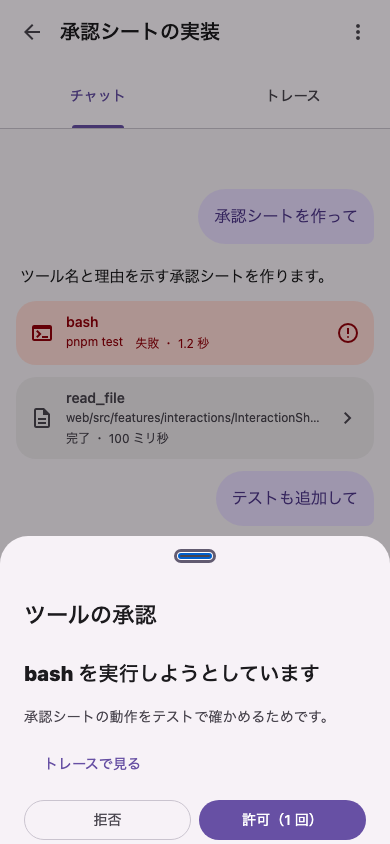
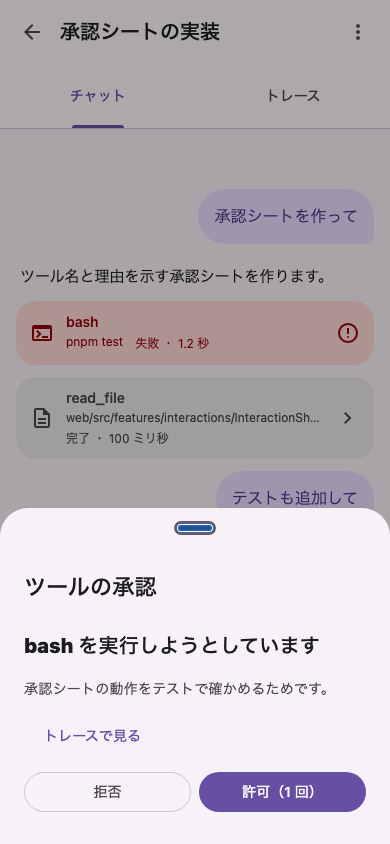
docs: add English and Chinese READMEs with screenshots
AI-Harness: Codex desktop
AI-Model: GPT-6
AI-Effort: 未計測（実行環境から推論設定値を取得できないため）
AI-Duration: 未計測（作業開始時刻を計測していないため）
AI-Cost: 未計測（個別の費用計測値が提供されないため）
AI-Task: README translations

Changed region(s): [[0.0615, 0.6777, 0.8308, 0.9858], [0.0, 0.5853, 1.0, 0.6777], [0.4923, 0.8934, 0.9538, 1.0]]

diff --git a/README.zh-CN.md b/README.zh-CN.md
@@ -1,0 +1,76 @@
+# dsh-webui-m3e
+
+[日本語](README.md) | [English](README.en.md) | 简体中文
+
+这是一个插件，让你通过适合智能手机使用的 Material 3 Expressive 界面操作 DeepSeek Harness（DSH）。界面文字仅提供日语。
+
+<p>
+  <img src="docs/images/home.zh-CN.png" alt="会话列表" width="200">
+  <img src="docs/images/chat.zh-CN.png" alt="会话聊天" width="200">
+  <img src="docs/images/approval.zh-CN.png" alt="工具审批" width="200">
+  <img src="docs/images/inbox.zh-CN.png" alt="待处理事项" width="200">
+</p>
+
+这些截图展示经过翻译的模拟画面；实际应用界面仍仅提供日语。
+
+> [!NOTE]
+> 这是个人项目，并非 DeepSeek 官方产品。项目仍在开发中，尚未完成与实际 DSH 连接的验证。
+
+## 功能
+
+- **会话**：在手机屏幕上阅读与 AI 的对话、工具执行结果和思考内容，也可以切换到按时间顺序排列记录的「トレース」（追踪）视图。
+- **回复**：无论当前在哪个页面，都可以通过底部弹出的面板审批工具、回答 AI 的提问或确认计划。
+- **待处理事项**：集中查看需要回复的会话和已结束的会话。
+- **输入**：支持附加图片、显示文件和命令候选项，以及切换模型和权限。
+- **其他功能**：搜索会话、配置 DSH 并登记 API 密钥，以及将网页添加到主屏幕后作为 Web 应用使用。
+
+DSH 原有的界面会保留。你可以在每台设备上分别选择使用哪个界面。
+
+## 环境要求
+
+- DeepSeek Harness 0.1.5-rc.3（已使用此版本验证启动和连接）
+- 用于构建的 Node.js 22 或更高版本，以及 pnpm
+
+## 安装
+
+```bash
+git clone https://github.com/AliceSaikawa/dsh-webui-m3e.git
+```
+
+```bash
+cd dsh-webui-m3e && pnpm install && pnpm build && pnpm pack
+```
+
+将生成的 `dsh-webui-m3e-<version>.tgz` 安装到 DSH，然后重启 DSH。请通过 `--profile` 指定运行 DSH Web 界面的配置档案。
+
+```bash
+dsh plugin --profile web add file:/path/to/dsh-webui-m3e-<version>.tgz
+```
+
+重新安装时，请先提高 `package.json` 中的 `version`，再重新构建。若版本号不变，旧文件可能会继续被使用。
+
+## 使用方法
+
+1. 先在常用的 DSH 界面（`http://<host>/`）登录一次。
+2. 打开 `http://<host>/m3e/`。
+3. 在 iPhone 上，可以通过 Safari 的分享菜单选择“添加到主屏幕”，像应用一样打开。
+
+### 切换界面
+
+你可以通过以下任一方式选择这台设备使用的界面。所选设置会分别保存在每台设备上。
+
+- 在原有界面中选择「設定 → 一般 → この端末で M3E の画面を使う」（设置 → 常规 → 在此设备上使用 M3E 界面）
+- 在本界面中选择「設定 → 今の画面に戻す」
+- 在 URL 后附加 `?ui=m3e` 或 `?ui=classic` 后打开
+
+如果某个界面无法正常打开，请访问 `http://<host>/?ui=classic`，返回原有界面。
+
+## 注意事项
+
+- 界面文字仅提供日语。
+- 插件随附 DSH 的内部库（`@deepseek-ai/cordis`、`@deepseek-ai/dsh-client-store`），因此可能无法在某些 DSH 版本上运行。
+- 开发期间使用模拟数据代替实际 DSH 进行验证。开发方法和工作原理见 [docs/development.md](docs/development.md)。
+
+## 许可证
+
+采用 MIT 许可证。详见 [LICENSE](LICENSE)。

diff --git a/README.en.md b/README.en.md
@@ -1,0 +1,76 @@
+# dsh-webui-m3e
+
+[日本語](README.md) | English | [简体中文](README.zh-CN.md)
+
+A Material 3 Expressive mobile Web UI plugin for DeepSeek Harness (DSH). The UI text is Japanese only.
+
+<p>
+  <img src="docs/images/home.en.png" alt="Session list" width="200">
+  <img src="docs/images/chat.en.png" alt="Conversation chat" width="200">
+  <img src="docs/images/approval.en.png" alt="Tool approval" width="200">
+  <img src="docs/images/inbox.en.png" alt="Items needing attention" width="200">
+</p>
+
+The screenshots show translated mock screens. The actual app UI is Japanese only.
+
+> [!NOTE]
+> This is a personal project and is not an official DeepSeek product. It is under development and has not yet been tested with a live DSH instance.
+
+## Features
+
+- **Conversations:** Read AI responses, tool results, and reasoning on a phone-sized screen. You can also switch to a chronological trace view.
+- **Responses:** Approve tools, answer AI questions, and review plans from a bottom sheet on any screen.
+- **Inbox:** See conversations that need a response alongside completed conversations.
+- **Composer:** Attach images, get file and command suggestions, and switch models and permission modes.
+- **More:** Search conversations, manage DSH settings and API keys, and add the Web app to your home screen.
+
+The existing DSH interface remains available. You can choose which interface to use on each device.
+
+## Requirements
+
+- DeepSeek Harness 0.1.5-rc.3 (startup and connection have been verified with this version)
+- Node.js 22 or later and pnpm for building
+
+## Installation
+
+```bash
+git clone https://github.com/AliceSaikawa/dsh-webui-m3e.git
+```
+
+```bash
+cd dsh-webui-m3e && pnpm install && pnpm build && pnpm pack
+```
+
+Install the resulting `dsh-webui-m3e-<version>.tgz` in DSH, then restart DSH. Set `--profile` to the profile running the DSH Web UI.
+
+```bash
+dsh plugin --profile web add file:/path/to/dsh-webui-m3e-<version>.tgz
+```
+
+When reinstalling, increment `version` in `package.json` before rebuilding the package. Otherwise, DSH may continue to use the old files.
+
+## Usage
+
+1. Sign in once through the usual DSH interface (`http://<host>/`).
+2. Open `http://<host>/m3e/`.
+3. On iPhone, choose “Add to Home Screen” from Safari's Share menu to open it like an app.
+
+### Switching interfaces
+
+Choose which interface to use on this device with any of the following options. Your choice is saved separately on each device.
+
+- In the usual interface: `設定 → 一般 → この端末で M3E の画面を使う` (Settings → General → Use the M3E interface on this device)
+- In this interface: `設定 → 今の画面に戻す` (Settings → Return to the current interface)
+- Add `?ui=m3e` or `?ui=classic` to the URL
+
+If either interface fails to load, open `http://<host>/?ui=classic` to return to the usual interface.
+
+## Notes
+
+- The UI text is Japanese only.
+- This plugin bundles internal DSH libraries (`@deepseek-ai/cordis` and `@deepseek-ai/dsh-client-store`), so it may not work with every DSH version.
+- During development, the UI is checked with mock data instead of a live DSH instance. See [docs/development.md](docs/development.md) for the development workflow and architecture.
+
+## License
+
+MIT. See [LICENSE](LICENSE).

diff --git a/README.md b/README.md
@@ -1,5 +1,7 @@
 # dsh-webui-m3e
 
+日本語 | [English](README.en.md) | [简体中文](README.zh-CN.md)
+
 DeepSeek Harness（DSH）を、スマートフォンで使いやすい Material 3 Expressive の画面で操作するためのプラグインです。
 
 A Material 3 Expressive mobile Web UI plugin for DeepSeek Harness (DSH). The UI text is Japanese only.
